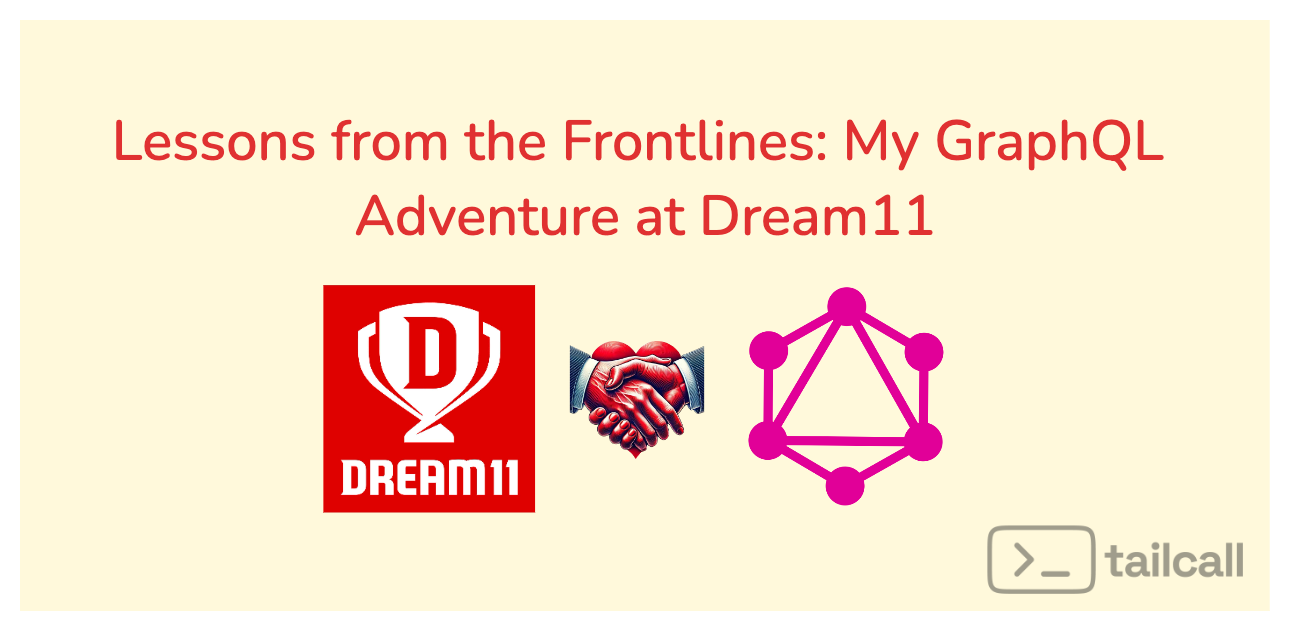
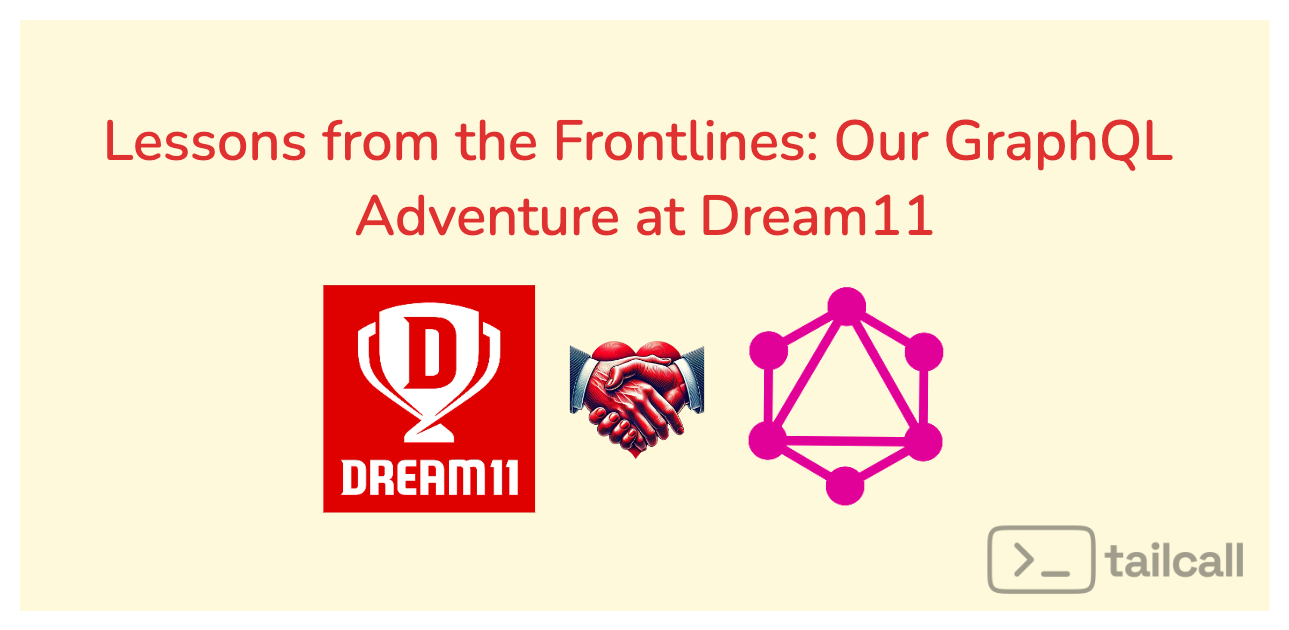
fix: heading

Changed region(s): [[0.0621, 0.181, 0.8999, 0.2714]]

diff --git a/blog/bff-case-study-2024-08-30.md b/blog/bff-case-study-2024-08-30.md
@@ -1,5 +1,5 @@
 ---
-title: "Lessons from the Frontlines: My GraphQL Adventure at Dream11"
+title: "Lessons from the Frontlines: Our GraphQL Adventure at Dream11"
 description: Learn how Dream11 leverages GraphQL to build a scalable, performant, and user-friendly fantasy sports platform.
 hide_table_of_contents: true
 slug: dream11-graphql-case-study
